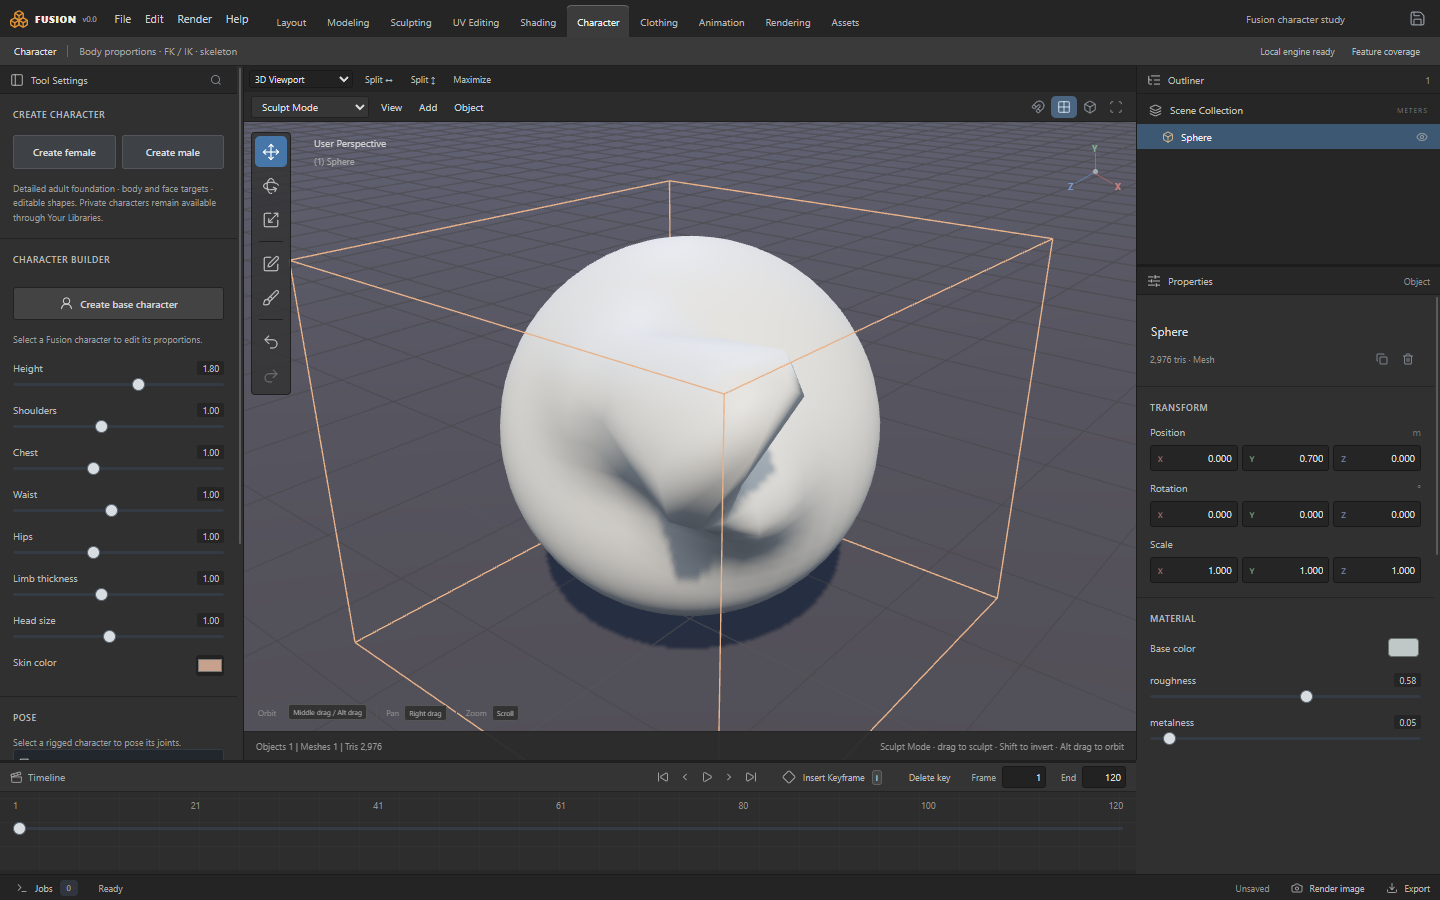
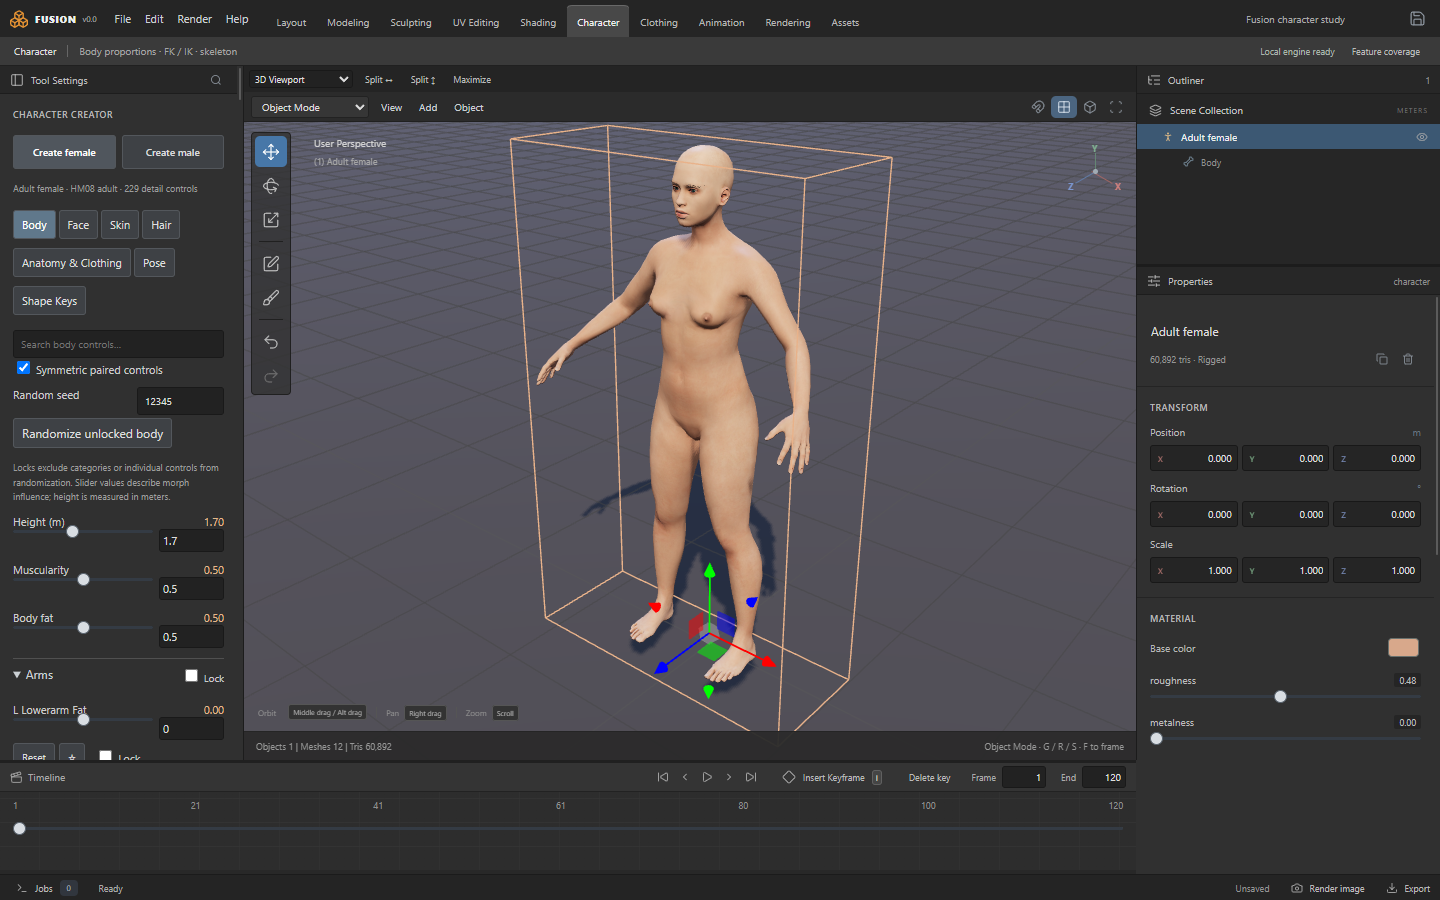
Use real app content in showcase images
Character shot now creates an actual female character (60,892-tri rigged HM08 foundation, 229 controls), Clothing creates a real pattern skirt on her, and Shading applies the Terracotta preset to it. Hero image switched to the Character Creator. Regenerated via npm run showcase.

diff --git a/README.md b/README.md
@@ -4,7 +4,7 @@
 
 Fusion Studio combines a Blender-style editor, a character creator, pattern-based clothing design with cloth simulation, animation and Blender-backed rendering in a single Windows desktop app. It reads supported DAZ DSON content directly, validates glTF before import, and keeps every workflow in one scene with one undo history.
 
-![Sculpting in Fusion Studio](fusion-studio/docs/showcase/02-sculpting.png)
+![Character Creator in Fusion Studio](fusion-studio/docs/showcase/03-character.png)
 
 ## Demo
 
@@ -16,11 +16,13 @@ Regenerate this media any time with `npm run showcase` inside `fusion-studio/` (
 
 ## Showcase
 
-| Layout & modeling | Character |
-| --- | --- |
-| ![Layout workspace](fusion-studio/docs/showcase/01-layout.png) | ![Character workspace](fusion-studio/docs/showcase/03-character.png) |
+All screenshots below are captured from the running app by `npm run showcase` — real scenes, no mockups.
 
-| Clothing & patterns | Shading |
+| Layout & modeling | Sculpting (17 brushes) |
+| --- | --- |
+| ![Layout workspace](fusion-studio/docs/showcase/01-layout.png) | ![Sculpting workspace](fusion-studio/docs/showcase/02-sculpting.png) |
+
+| Clothing: pattern skirt on the created character | Shading: Terracotta preset applied to the skirt |
 | --- | --- |
 | ![Clothing workspace](fusion-studio/docs/showcase/04-clothing.png) | ![Shading workspace](fusion-studio/docs/showcase/05-shading.png) |
 
